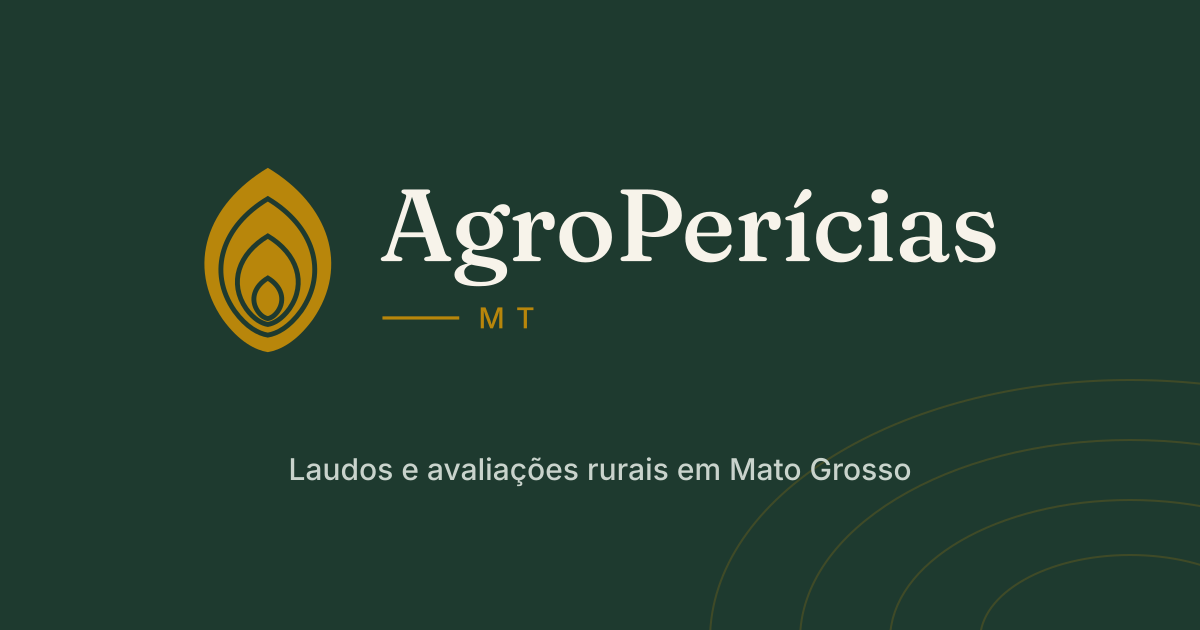
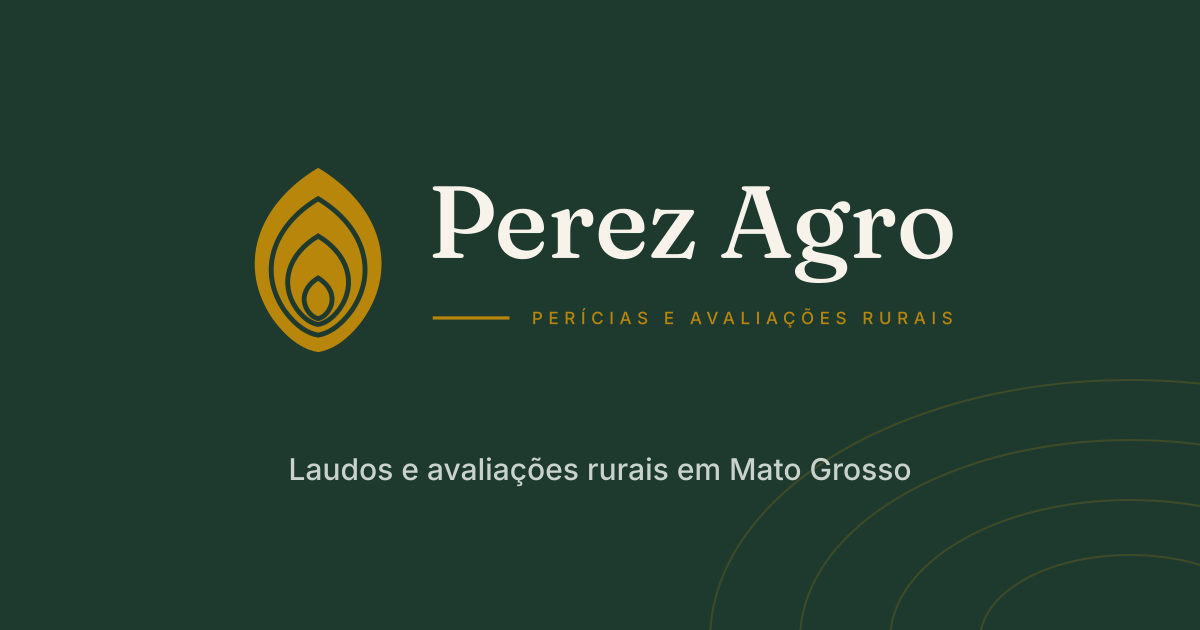
Add files via upload

Changed region(s): [[0.1542, 0.2714, 0.8325, 0.573]]

diff --git a/Rodape.dc.html b/Rodape.dc.html
@@ -10,7 +10,7 @@
 <footer style="background:#1E3A2F;color:#F7F3EA;font-family:Inter,system-ui,sans-serif">
   <div style="max-width:1240px;margin:0 auto;padding:64px 28px 28px;display:grid;grid-template-columns:repeat(auto-fit,minmax(220px,1fr));gap:40px">
     <div style="display:flex;flex-direction:column;gap:18px;grid-column:span 1">
-      <a href="Home.dc.html" aria-label="AgroPerícias MT, página inicial" style="display:flex"><img src="svg/logo-horizontal-negativo.svg" alt="AgroPerícias MT" style="height:40px;width:auto;display:block"></a>
+      <a href="Home.dc.html" aria-label="Perez Agro, página inicial" style="display:flex"><img src="svg/logo-horizontal-negativo.svg" alt="Perez Agro" style="height:40px;width:auto;display:block"></a>
       <p style="margin:0;font-size:14px;line-height:1.6;color:#D9D3C4;max-width:300px;text-wrap:pretty">Engenharia de avaliações, georreferenciamento e perícias para o agronegócio em todo o Mato Grosso.</p>
     </div>
     <div style="display:flex;flex-direction:column;gap:10px">
@@ -23,7 +23,7 @@
     <div style="display:flex;flex-direction:column;gap:10px">
       <span style="font-size:12px;letter-spacing:0.12em;text-transform:uppercase;color:#D9A92E;font-weight:500">Contato</span>
       <a href="https://wa.me/5565999826390" style="color:#F7F3EA;text-decoration:none;font-size:14px" style-hover="color:#D9A92E">WhatsApp (65) 9 9982-6390</a>
-      <a href="mailto:agropericiasmt@gmail.com" style="color:#F7F3EA;text-decoration:none;font-size:14px" style-hover="color:#D9A92E">agropericiasmt@gmail.com</a>
+      <a href="mailto:perezagromt@gmail.com" style="color:#F7F3EA;text-decoration:none;font-size:14px" style-hover="color:#D9A92E">perezagromt@gmail.com</a>
       <span style="font-size:14px;color:#D9D3C4">Cuiabá, Mato Grosso</span>
     </div>
     <div style="display:flex;flex-direction:column;gap:10px">
@@ -33,7 +33,7 @@
     </div>
   </div>
   <div style="max-width:1240px;margin:0 auto;padding:20px 28px 32px;border-top:1px solid rgba(247,243,234,0.14);display:flex;flex-wrap:wrap;justify-content:space-between;gap:12px;font-size:13px;color:#BFB8A8">
-    <span>© 2026 AgroPerícias MT. Todos os direitos reservados.</span>
+    <span>© 2026 Perez Agro. Todos os direitos reservados.</span>
   </div>
 </footer>
 </x-dc>

diff --git a/Contato.dc.html b/Contato.dc.html
@@ -17,8 +17,8 @@
         <a href="{{ whats }}" target="_blank" rel="noopener" style="display:flex;justify-content:space-between;gap:16px;padding:18px 0;border-bottom:1px solid rgba(247,243,234,0.16);color:#F7F3EA;text-decoration:none" style-hover="color:#D9A92E">
           <span style="font-size:13px;color:#BFB8A8;min-width:90px">WhatsApp</span><span style="font-size:16px;font-weight:500">(65) 9 9982-6390</span>
         </a>
-        <a href="mailto:agropericiasmt@gmail.com" style="display:flex;justify-content:space-between;gap:16px;padding:18px 0;border-bottom:1px solid rgba(247,243,234,0.16);color:#F7F3EA;text-decoration:none" style-hover="color:#D9A92E">
-          <span style="font-size:13px;color:#BFB8A8;min-width:90px">E-mail</span><span style="font-size:16px;font-weight:500">agropericiasmt@gmail.com</span>
+        <a href="mailto:perezagromt@gmail.com" style="display:flex;justify-content:space-between;gap:16px;padding:18px 0;border-bottom:1px solid rgba(247,243,234,0.16);color:#F7F3EA;text-decoration:none" style-hover="color:#D9A92E">
+          <span style="font-size:13px;color:#BFB8A8;min-width:90px">E-mail</span><span style="font-size:16px;font-weight:500">perezagromt@gmail.com</span>
         </a>
         <div style="display:flex;justify-content:space-between;gap:16px;padding:18px 0;border-bottom:1px solid rgba(247,243,234,0.16)">
           <span style="font-size:13px;color:#BFB8A8;min-width:90px">Atendimento</span><span style="font-size:16px;font-weight:500;text-align:right">Todo o Mato Grosso</span>

diff --git a/Georreferenciamento.dc.html b/Georreferenciamento.dc.html
@@ -8,15 +8,15 @@
 <body>
 <x-dc>
 <helmet>
-  <title>Georreferenciamento, CAR e regularização fundiária | AgroPerícias MT</title>
+  <title>Georreferenciamento, CAR e regularização fundiária | Perez Agro</title>
   <meta name="description" content="Georreferenciamento e certificação no SIGEF, CAR, PRA, usucapião e regularização fundiária de imóveis rurais, com apuração das áreas não tributáveis do ITR, em todo o Mato Grosso.">
   <link rel="icon" href="favicon/favicon.ico" sizes="any">
   <link rel="icon" href="favicon/favicon.svg" type="image/svg+xml">
   <link rel="apple-touch-icon" href="favicon/apple-touch-icon.png">
   <meta name="theme-color" content="#1E3A2F">
-  <meta property="og:title" content="Georreferenciamento, CAR e regularização fundiária | AgroPerícias MT">
+  <meta property="og:title" content="Georreferenciamento, CAR e regularização fundiária | Perez Agro">
   <meta property="og:description" content="Georreferenciamento e certificação no SIGEF, CAR, PRA, usucapião e regularização fundiária de imóveis rurais, com apuração das áreas não tributáveis do ITR, em todo o Mato Grosso.">
-  <meta property="og:image" content="https://agropericiasmt.com.br/redes/compartilhamento-1200x630.png">
+  <meta property="og:image" content="https://perezagro.com.br/redes/compartilhamento-1200x630.png">
   <meta property="og:image:width" content="1200">
   <meta property="og:image:height" content="630">
   <link rel="preconnect" href="https://fonts.googleapis.com">

diff --git a/Pericia-Judicial.dc.html b/Pericia-Judicial.dc.html
@@ -8,15 +8,15 @@
 <body>
 <x-dc>
 <helmet>
-  <title>Perícia judicial agrária | AgroPerícias MT</title>
+  <title>Perícia judicial agrária | Perez Agro</title>
   <meta name="description" content="Perícias judiciais e assistência técnica em ações sobre imóveis rurais, divisas, desapropriação e danos em lavouras, em todo o Mato Grosso.">
   <link rel="icon" href="favicon/favicon.ico" sizes="any">
   <link rel="icon" href="favicon/favicon.svg" type="image/svg+xml">
   <link rel="apple-touch-icon" href="favicon/apple-touch-icon.png">
   <meta name="theme-color" content="#1E3A2F">
-  <meta property="og:title" content="Perícia judicial agrária | AgroPerícias MT">
+  <meta property="og:title" content="Perícia judicial agrária | Perez Agro">
   <meta property="og:description" content="Perícias judiciais e assistência técnica em ações sobre imóveis rurais, divisas, desapropriação e danos em lavouras, em todo o Mato Grosso.">
-  <meta property="og:image" content="https://agropericiasmt.com.br/redes/compartilhamento-1200x630.png">
+  <meta property="og:image" content="https://perezagro.com.br/redes/compartilhamento-1200x630.png">
   <meta property="og:image:width" content="1200">
   <meta property="og:image:height" content="630">
   <link rel="preconnect" href="https://fonts.googleapis.com">

diff --git a/Pericia-Agronomica.dc.html b/Pericia-Agronomica.dc.html
@@ -8,15 +8,15 @@
 <body>
 <x-dc>
 <helmet>
-  <title>Perícia agronômica e de safra | AgroPerícias MT</title>
+  <title>Perícia agronômica e de safra | Perez Agro</title>
   <meta name="description" content="Laudos de quebra de safra e danos em lavouras para seguro rural, Proagro e prorrogação de crédito, com drone, satélite e ART.">
   <link rel="icon" href="favicon/favicon.ico" sizes="any">
   <link rel="icon" href="favicon/favicon.svg" type="image/svg+xml">
   <link rel="apple-touch-icon" href="favicon/apple-touch-icon.png">
   <meta name="theme-color" content="#1E3A2F">
-  <meta property="og:title" content="Perícia agronômica e de safra | AgroPerícias MT">
+  <meta property="og:title" content="Perícia agronômica e de safra | Perez Agro">
   <meta property="og:description" content="Laudos de quebra de safra e danos em lavouras para seguro rural, Proagro e prorrogação de crédito, com drone, satélite e ART.">
-  <meta property="og:image" content="https://agropericiasmt.com.br/redes/compartilhamento-1200x630.png">
+  <meta property="og:image" content="https://perezagro.com.br/redes/compartilhamento-1200x630.png">
   <meta property="og:image:width" content="1200">
   <meta property="og:image:height" content="630">
   <link rel="preconnect" href="https://fonts.googleapis.com">

diff --git a/Avaliacao-Rural.dc.html b/Avaliacao-Rural.dc.html
@@ -8,15 +8,15 @@
 <body>
 <x-dc>
 <helmet>
-  <title>Avaliação de imóveis rurais | AgroPerícias MT</title>
+  <title>Avaliação de imóveis rurais | Perez Agro</title>
   <meta name="description" content="Laudos de avaliação de fazendas e glebas conforme a NBR 14653-3, com vistoria, pesquisa de mercado e ART, em todo o Mato Grosso.">
   <link rel="icon" href="favicon/favicon.ico" sizes="any">
   <link rel="icon" href="favicon/favicon.svg" type="image/svg+xml">
   <link rel="apple-touch-icon" href="favicon/apple-touch-icon.png">
   <meta name="theme-color" content="#1E3A2F">
-  <meta property="og:title" content="Avaliação de imóveis rurais | AgroPerícias MT">
+  <meta property="og:title" content="Avaliação de imóveis rurais | Perez Agro">
   <meta property="og:description" content="Laudos de avaliação de fazendas e glebas conforme a NBR 14653-3, com vistoria, pesquisa de mercado e ART, em todo o Mato Grosso.">
-  <meta property="og:image" content="https://agropericiasmt.com.br/redes/compartilhamento-1200x630.png">
+  <meta property="og:image" content="https://perezagro.com.br/redes/compartilhamento-1200x630.png">
   <meta property="og:image:width" content="1200">
   <meta property="og:image:height" content="630">
   <link rel="preconnect" href="https://fonts.googleapis.com">

diff --git a/Home.dc.html b/Home.dc.html
@@ -8,15 +8,15 @@
 <body>
 <x-dc>
 <helmet>
-  <title>AgroPerícias MT | Avaliações, georreferenciamento e perícias rurais</title>
+  <title>Perez Agro | Avaliações, georreferenciamento e perícias rurais</title>
   <meta name="description" content="Engenharia de avaliações, georreferenciamento e perícias para o agronegócio em todo o Mato Grosso. Laudos com ART.">
   <link rel="icon" href="favicon/favicon.ico" sizes="any">
   <link rel="icon" href="favicon/favicon.svg" type="image/svg+xml">
   <link rel="apple-touch-icon" href="favicon/apple-touch-icon.png">
   <meta name="theme-color" content="#1E3A2F">
-  <meta property="og:title" content="AgroPerícias MT">
+  <meta property="og:title" content="Perez Agro">
   <meta property="og:description" content="Avaliações, georreferenciamento e perícias rurais em todo o Mato Grosso.">
-  <meta property="og:image" content="https://agropericiasmt.com.br/redes/compartilhamento-1200x630.png">
+  <meta property="og:image" content="https://perezagro.com.br/redes/compartilhamento-1200x630.png">
   <meta property="og:image:width" content="1200">
   <meta property="og:image:height" content="630">
   <link rel="preconnect" href="https://fonts.googleapis.com">

diff --git a/index.html b/index.html
@@ -8,15 +8,15 @@
 <body>
 <x-dc>
 <helmet>
-  <title>AgroPerícias MT | Avaliações, georreferenciamento e perícias rurais</title>
+  <title>Perez Agro | Avaliações, georreferenciamento e perícias rurais</title>
   <meta name="description" content="Engenharia de avaliações, georreferenciamento e perícias para o agronegócio em todo o Mato Grosso. Laudos com ART.">
   <link rel="icon" href="favicon/favicon.ico" sizes="any">
   <link rel="icon" href="favicon/favicon.svg" type="image/svg+xml">
   <link rel="apple-touch-icon" href="favicon/apple-touch-icon.png">
   <meta name="theme-color" content="#1E3A2F">
-  <meta property="og:title" content="AgroPerícias MT">
+  <meta property="og:title" content="Perez Agro">
   <meta property="og:description" content="Avaliações, georreferenciamento e perícias rurais em todo o Mato Grosso.">
-  <meta property="og:image" content="https://agropericiasmt.com.br/redes/compartilhamento-1200x630.png">
+  <meta property="og:image" content="https://perezagro.com.br/redes/compartilhamento-1200x630.png">
   <meta property="og:image:width" content="1200">
   <meta property="og:image:height" content="630">
   <link rel="preconnect" href="https://fonts.googleapis.com">

diff --git a/Cabecalho.dc.html b/Cabecalho.dc.html
@@ -9,8 +9,8 @@
 <x-dc>
 <header style="position:sticky;top:0;z-index:50;background:rgba(247,243,234,0.96);backdrop-filter:blur(8px);border-bottom:1px solid #E2DCCD;font-family:Inter,system-ui,sans-serif">
   <div style="max-width:1240px;margin:0 auto;padding:14px 28px;display:flex;align-items:center;justify-content:space-between;gap:24px">
-    <a href="Home.dc.html" aria-label="AgroPerícias MT, página inicial" style="display:flex;flex:none">
-      <img src="svg/logo-horizontal-colorido.svg" alt="AgroPerícias MT" style="height:44px;width:auto;display:block">
+    <a href="Home.dc.html" aria-label="Perez Agro, página inicial" style="display:flex;flex:none">
+      <img src="svg/logo-horizontal-colorido.svg" alt="Perez Agro" style="height:44px;width:auto;display:block">
     </a>
     <sc-if value="{{ desktop }}" hint-placeholder-val="{{ true }}">
       <nav style="display:flex;align-items:center;gap:26px">

diff --git a/Hero 3D Terreno.html b/Hero 3D Terreno.html
@@ -3,7 +3,7 @@
 <head>
 <meta charset="utf-8">
 <meta name="viewport" content="width=device-width, initial-scale=1">
-<title>AgroPerícias MT | Hero 3D</title>
+<title>Perez Agro | Hero 3D</title>
 <script type="importmap">
 {
   "imports": {
